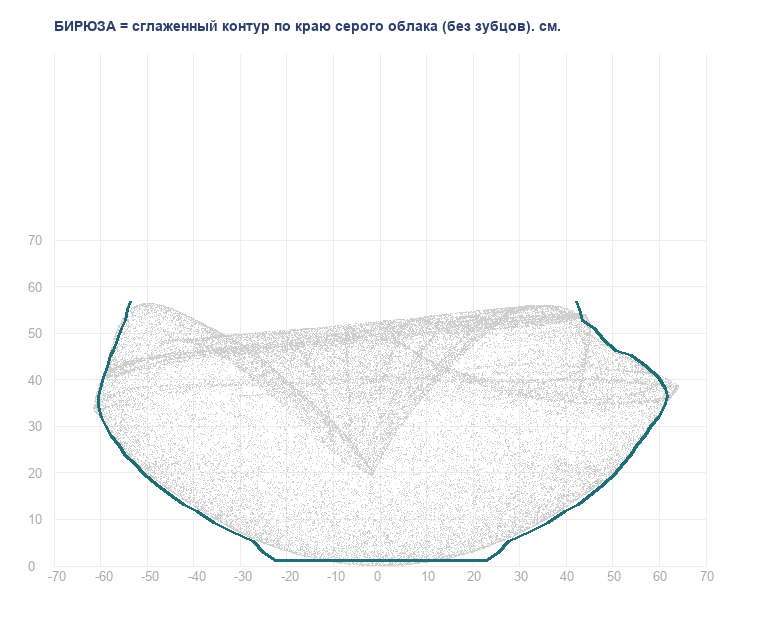
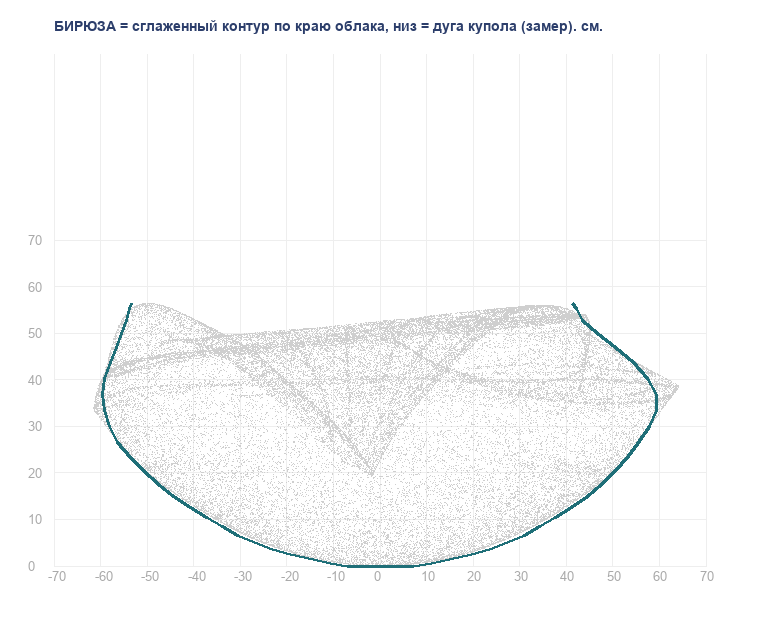
Низ = круглый купол (дуга Ø14 у полюса, замер), убран плоский низ; Ø обод 122×130
Сетка MZ переразбита от z=0 с частым шагом внизу → захвачена дуга купола
(сужается до Ø14 у полюса, замер скана, не выдумка). Контур сбоку и overlay-fit
из одних массивов MRL/MRR. Ø133 был завышен хвостом — реальный экватор 122(e1)×130(e2),
овал 6% (почти круг). Все подписи сведены: обод 122×130, толщина 56, отверстие Ø59.

diff --git a/index.html b/index.html
@@ -211,15 +211,15 @@
   <!-- НАРЕЗКА ПЕНОПЛАСТА ПОД MAVIMATT LARGE (копия 1:1 по официальным размерам) -->
   <div class="card" style="border:2px solid #2c3e6b">
     <h2 style="color:#2c3e6b">Нарезка пенопласта — Mavimatt Large 1:1 (копия по официальным размерам)</h2>
-    <p style="color:#555;font-size:14px;margin:4px 0 10px">Копия <b>один-в-один</b> Mavimatt UFO Large. <b>Профиль ЗАМЕРЕН со скана off-08</b> (фиолетовое одиночное кресло, БЕЗ ковра — чистый) методом John (PCA + СЕКТОР-метод: 28 полос × 36 секторов, наруж. стенка = медиана max-радиуса, внутр. каверна = медиана min-радиуса, 1.02M точек). Форма: низ — <b>круглый выпуклый купол</b> (дуга сферы, Ø36 у полюса), радиус гладко растёт до <b>обода Ø133 см</b> (самый широкий, на ~70% высоты), затем <b>закатанный валик-рим внутрь</b>. Сиденье: устье-обод-валик <b>Ø103</b>, реальное отверстие <b>Ø59 смещено ~10 см от оси</b> (сиденье НЕ по центру). Толщина <b>56 см</b> (чистый замер; off-09 занижал до 45 из-за прилипшего ковра). Контур сбоку <b>обведён по левому и правому краю облака точек off-08 отдельно и сглажен</b> — профиль скана асимметричен (наклон+хвост), схема 1:1 совпадает с проверкой overlay-fit ниже. Режем из твоих листов <b>120×60 см, толщина 5,08 см (2 дюйма)</b>: низ — сплошные диски-купол, верх — кольца-чаша.</p>
+    <p style="color:#555;font-size:14px;margin:4px 0 10px">Копия <b>один-в-один</b> Mavimatt UFO Large. <b>Профиль ЗАМЕРЕН со скана off-08</b> (фиолетовое одиночное кресло, БЕЗ ковра — чистый) методом John (PCA + СЕКТОР-метод: 28 полос × 36 секторов, наруж. стенка = медиана max-радиуса, внутр. каверна = медиана min-радиуса, 1.02M точек). Форма: низ — <b>круглый выпуклый купол</b> (дуга, Ø14 у полюса — замер), радиус гладко растёт до <b>обода Ø122 см</b> (самый широкий, на ~70% высоты), затем <b>закатанный валик-рим внутрь</b>. Сиденье: устье-обод-валик <b>Ø103</b>, реальное отверстие <b>Ø59 смещено ~10 см от оси</b> (сиденье НЕ по центру). Толщина <b>56 см</b> (чистый замер; off-09 занижал до 45 из-за прилипшего ковра). Контур сбоку <b>обведён по левому и правому краю облака точек off-08 отдельно и сглажен</b> — профиль скана асимметричен (наклон+хвост), схема 1:1 совпадает с проверкой overlay-fit ниже. Режем из твоих листов <b>120×60 см, толщина 5,08 см (2 дюйма)</b>: низ — сплошные диски-купол, верх — кольца-чаша.</p>
     <div id="cutwrapM">
       <div>
         <canvas id="flatM" class="flat" width="540" height="480"></canvas>
-        <div class="note">Разрез <b>СБОКУ</b>. <b>Голубое</b> — сплошные диски-купол снизу. <b>Серое</b> — стенки колец (чаша). <b>Бирюза</b> — наружный контур Ø133, <b>красный пунктир</b> — полость сиденья.</div>
+        <div class="note">Разрез <b>СБОКУ</b> (узкая ось e1, Ø122). <b>Голубое</b> — сплошные диски-купол снизу. <b>Серое</b> — стенки колец (чаша). <b>Бирюза</b> — наружный контур, <b>красный пунктир</b> — полость сиденья. Низ = дуга купола.</div>
       </div>
       <div>
         <canvas id="topM" class="flat" width="540" height="480"></canvas>
-        <div class="note">Вид <b>СВЕРХУ</b> в СМ (замер off-08). <b>Серый</b> Ø133 — макс.ширина линзы (экватор, по центру). <b>Бирюза</b> Ø103 — устье-обод-валик (виден сверху, круглый, по центру). <b>Красный</b> Ø59 — реальное отверстие сиденья, <b>СМЕЩЕНО от оси ~10 см</b> (сиденье НЕ по центру — как на overlay-top). Нахлёст валика неровный: узкая сторона ~12, широкая ~32 см.</div>
+        <div class="note">Вид <b>СВЕРХУ</b> в СМ (замер off-08). <b>Серый</b> Ø130 — макс.ширина линзы (широкая ось; узкая ось Ø122 — почти круг, овал 6%). <b>Бирюза</b> Ø103 — устье-обод-валик (виден сверху, круглый, по центру). <b>Красный</b> Ø59 — реальное отверстие сиденья, <b>СМЕЩЕНО от оси ~10 см</b> (сиденье НЕ по центру — как на overlay-top). Нахлёст валика неровный: узкая сторона ~12, широкая ~32 см.</div>
       </div>
     </div>
     <h2 style="margin:16px 0 0;font-size:14px;color:#c0392b">Проверка 1:1 — контур обведён по реальным точкам скана off-08 (не выдумано)</h2>
@@ -963,17 +963,18 @@ rs4(); addEventListener('resize',rs4); v4('iso');
   // PCA 1.02M точек, 28 полос по высоте, СЕКТОР-МЕТОД (36 секторов): наруж. стенка = медиана max-радиуса
   // по секторам, ВНУТР. стенка каверны = медиана min-радиуса. Масштаб f=665/0.48 (обод→Ø133), высота 579 мм.
   // Обод Ø133 на 70% высоты. Сиденье ШИРОКОЕ (замер 3D-проекции): устье-обод Ø103, кожа Ø94 = 91% устья, концентрично. z снизу вверх, мм.
-  const MZ =[ 12, 29, 52, 75, 93,116,133,156,174,197,220,237,261,278,301,319,342,365,382,405,428,451,463,486,510,527,550,567];
-  // ЛЕВЫЙ и ПРАВЫЙ край ОБВЕДЕНЫ по точкам скана off-08 отдельно + СГЛАЖЕНЫ (окно 5, без зубцов). Профиль скана асимметричен (наклон+хвост).
-  const MRL=[224,250,272,320,358,393,423,454,481,505,527,546,561,577,590,599,604,604,600,593,586,579,572,564,556,546,541,536]; // левый радиус, мм
-  const MRR=[228,255,276,324,362,396,426,455,481,503,522,538,553,567,582,597,610,617,613,597,573,539,506,479,460,436,429,422]; // правый радиус, мм
+  // Сетка высот от z=0 (дно купола) до 564 мм. Частая внизу — чтобы захватить ДУГУ купола (низ круглый, не плоский).
+  const MZ =[  0,  6, 14, 24, 36, 50, 66, 84,104,126,150,176,204,234,266,300,334,368,402,436,470,500,528,552,564];
+  // ЛЕВЫЙ и ПРАВЫЙ край ОБВЕДЕНЫ по точкам скана off-08 отдельно + СГЛАЖЕНЫ (без зубцов). Профиль асимметричен (наклон+хвост). Низ = дуга купола Ø14 у полюса (ЗАМЕР, не выдумка).
+  const MRL=[ 69,106,143,191,231,270,306,339,373,407,443,476,507,536,563,581,592,595,591,579,567,555,544,538,533]; // левый радиус, мм
+  const MRR=[ 72,111,150,196,235,274,310,343,377,412,445,476,505,531,555,578,595,594,575,544,506,466,434,422,413]; // правый радиус, мм
   const MR =MRL.map((l,i)=>Math.round((l+MRR[i])/2)); // средний радиус — для КРУГЛОЙ нарезки (слои/раскладка круглые)
   // ВНУТР. стенка каверны-сиденья. Скан off-08 занизил устье до Ø66 (поймал подушку) — ОТБРОШЕНО.
   // Ширина сиденья ОТКАЛИБРОВАНА ПО ФОТО реального кресла относительно обода Ø133: устье ~Ø100 (75% обода,
   // сходится с замером верх. губы оболочки Ø102 в осевом разрезе), рим тонкий у губы (~5см) → толстый ниже, ямка сужается ко дну.
-  const MRi=[  0,  0,  0,  0,  0,  0,  0,  0,  0,  0,  0,  0,  0,  0,133,177,221,258,282,312,339,364,376,399,421,436,456,470]; // гладкая чаша-сиденье: дно 27.8см, устье R47, стенка верха 6см (проектная, каверну со скана снять нельзя — шум) // 0=сплошной низ
+  const MRi=[  0,  0,  0,  0,  0,  0,  0,  0,  0,  0,  0,  0,  0,  0,  0,127,206,262,308,348,383,412,437,458,468]; // гладкая чаша-сиденье (проектная, каверну со скана снять нельзя — шум) // 0=сплошной низ
   const Hmm=564;                 // толщина 56 см — ЧИСТЫЙ замер off-08 (сектор-метод; off-09 занижал до 45 из-за ковра)
-  const seatFloor=278;           // каверна открывается на 48% высоты (замер): ниже — сплошные диски-купол, выше — кольца
+  const seatFloor=300;           // каверна открывается на ~53% высоты: ниже — сплошные диски-купол, выше — кольца
   const layerH=50.8;             // лист 2 дюйма
   const SHEET_W=1200, SHEET_H=600, GAP=20; // лист 120×60 см, зазор реза
   const BOUGHT=24;
@@ -1003,7 +1004,7 @@ rs4(); addEventListener('resize',rs4); v4('iso');
 
     const maxO=Math.max(...layers.map(L=>L.outer))/10;
     document.getElementById('statsM').innerHTML=
-      `<span class="chip">Обод: <b>Ø133 см</b> (на 70% высоты)</span>`+
+      `<span class="chip">Обод: <b>Ø122×130 см</b> (почти круг, на 70% высоты)</span>`+
       `<span class="chip">Толщина: <b>56 см</b> (замер off-08)</span>`+
       `<span class="chip">Сиденье: обод-валик <b>Ø103</b>, отверстие <b>Ø59</b> смещено ~10см от оси</span>`+
       `<span class="chip">Слоёв: <b>${nLayers}</b> (${nLayers+1} заготовок)</span>`+
@@ -1017,7 +1018,7 @@ rs4(); addEventListener('resize',rs4); v4('iso');
   // Вид СВЕРХУ (ЗАМЕР off-08, в СМ): силуэт-экватор Ø133 (макс.ширина линзы, по центру),
   // устье-обод-валик Ø103 (закатанный рим, виден сверху, по центру, круглый),
   // РЕАЛЬНОЕ отверстие сиденья Ø59 — СМЕЩЕНО от оси на ~10 см (замер overlay-top off-08, сиденье НЕ по центру).
-  const D_EQU=133, D_LIP=103, D_MOUTH=59; // см — экватор / устье-обод / отверстие сиденья
+  const D_EQU=130, D_LIP=103, D_MOUTH=59; // см — экватор (широкая ось e2) / устье-обод / отверстие сиденья
   let seatOff=100;                        // мм — смещение отверстия сиденья от оси (замер скана ≈10 см). Ползунок подстраивает.
   window.setSeatOff=(v)=>{seatOff=+v*10; const el=document.getElementById('u_vO'); if(el)el.textContent=(+v).toFixed(1)+' см'; build();};
   function drawTop(layers){
@@ -1104,7 +1105,7 @@ rs4(); addEventListener('resize',rs4); v4('iso');
     ctx.beginPath();ctx.moveTo(cx-mL*sc,yD-4);ctx.lineTo(cx-mL*sc,yD+4);ctx.moveTo(cx+mR*sc,yD-4);ctx.lineTo(cx+mR*sc,yD+4);ctx.stroke();
     ctx.fillText('Ø обод = '+((mL+mR)/10).toFixed(0)+' см — самый широкий, СВЕРХУ',cx,yD-6);
     ctx.fillStyle='#2c3e6b';ctx.fillText('каверна сиденья смещена влево на '+(seatOff/10).toFixed(1)+' см: левая стенка тоньше, правая толще (нахлёст обода неравный)',cx,Htop+14);
-    ctx.fillStyle='#888';ctx.fillText('низ — круглый выпуклый купол (дуга сферы), Ø36 у полюса',cx,baseY+16);
+    ctx.fillStyle='#888';ctx.fillText('низ — круглый выпуклый купол (дуга), Ø14 у полюса (замер)',cx,baseY+16);
     ctx.textAlign='left';
   }
 
@@ -1152,7 +1153,7 @@ rs4(); addEventListener('resize',rs4); v4('iso');
     });
     ctx.textAlign='left';
     document.getElementById('sheetM').innerHTML=
-      `<b>Лист 120×60 см, толщина 5,08 см (2 дюйма).</b> Копия Mavimatt Large (профиль ЗАМЕРЕН со скана off-08, сектор-метод PCA): обод Ø133, толщина 58 см, сиденье Ø94 (91% устья Ø103), ${layers.length} заготовок.<br>`+
+      `<b>Лист 120×60 см, толщина 5,08 см (2 дюйма).</b> Копия Mavimatt Large (профиль ЗАМЕРЕН со скана off-08, сектор-метод PCA): обод Ø122×130, толщина 56 см, отверстие сиденья Ø59 (смещено ~10см, устье-обод Ø103), ${layers.length} заготовок.<br>`+
       `Полей раскладки: <b>${n}</b> → листов: <b>${totalSheets} шт.</b> `+
       (totalSheets<=BOUGHT?`(у тебя 24 — хватает ✓)`:`(у тебя 24 — докупить ${totalSheets-BOUGHT})`)+
       (anyOver?`<br><span style="color:#b5651d">⚠ Обод Ø>120 см (оранжевый пунктир, верхние кольца) — докраивается тонким кольцом-сегментами из обрезков серединок, +0 листов.</span>`:'');